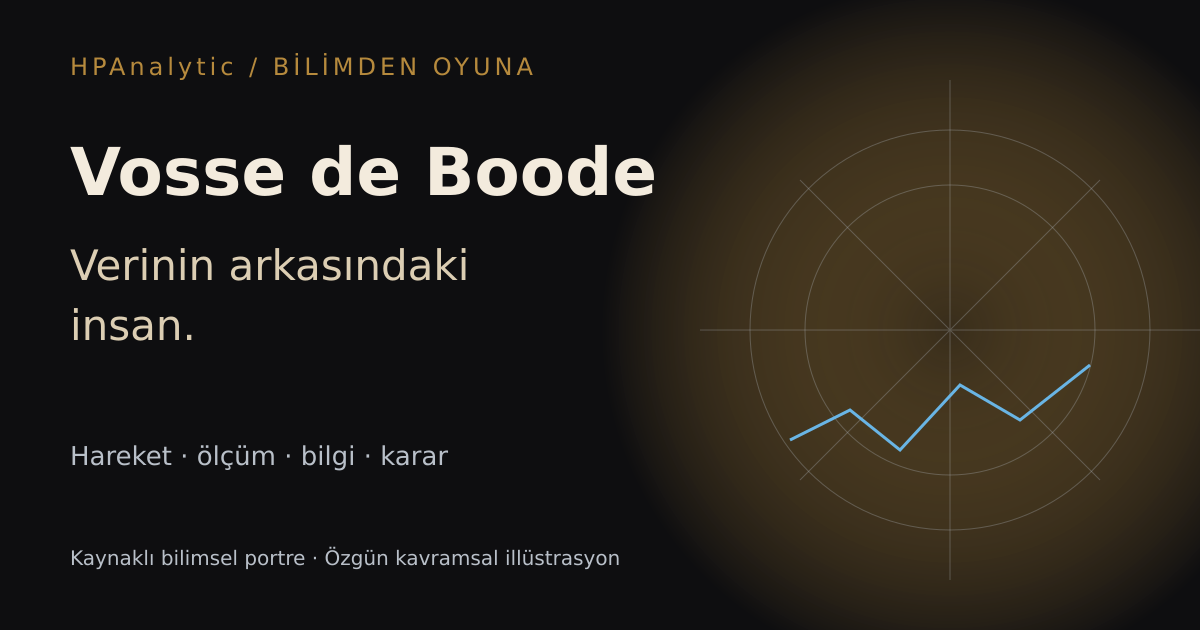
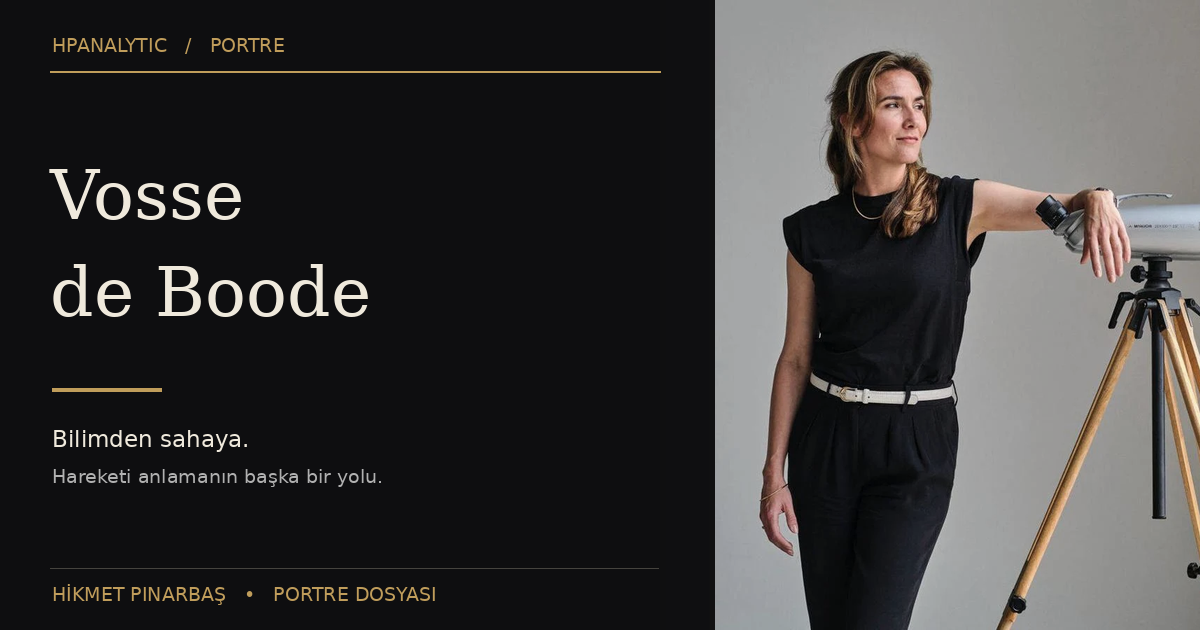
release(vosse): approved phone visual package and correct social cards

diff --git a/hpfootball-site/src/styles/portrait-p0.css b/hpfootball-site/src/styles/portrait-p0.css
@@ -28,3 +28,5 @@
 .portrait-context-hero{margin:0;width:100%;position:relative}.portrait-context-hero img{display:block;width:100%;height:clamp(310px,44vw,560px);object-fit:cover;filter:saturate(.65) contrast(1.07)}.portrait-context-hero figcaption{position:relative;margin:8px 0;font:400 11px/1.5 var(--font-sans,Arial,sans-serif);color:#b6bbbe}.portrait-context-hero a,.portrait-context-inline a{color:#e7bc70;text-decoration:underline;text-underline-offset:3px}.portrait-cover-aside:has(.portrait-context-hero){display:block;padding:8px 0}.portrait-cover-aside:has(.portrait-context-hero)>a{display:block;position:static;max-width:none;text-align:left;margin-top:12px;font-size:13px;color:#e7bc70}.portrait-context-inline{margin:36px auto;width:100%;max-width:760px}.portrait-context-inline img{display:block;max-height:460px;width:100%;object-fit:cover;filter:saturate(.7)}.portrait-context-inline figcaption{font:400 12px/1.7 var(--font-sans,Arial,sans-serif);color:#bbc0c3;margin-top:10px}@media(max-width:760px){.portrait-context-hero img{height:280px}.portrait-cover-aside:has(.portrait-context-hero){display:block}.portrait-context-inline{margin-block:24px}}
 
 .portrait-concept-figure{margin:32px auto;max-width:830px;width:100%;padding:clamp(8px,2vw,20px);border-top:1px solid #3c4348;border-bottom:1px solid #3c4348;background:#111619}.portrait-concept-figure img{display:block;width:100%;height:auto;max-height:480px;object-fit:contain}.portrait-concept-figure figcaption{font:400 12px/1.6 system-ui,sans-serif;color:#b8bec2;margin-top:12px}
+
+.portrait-motion img{width:100%;height:auto;max-height:480px;object-fit:contain;background:#111619}.portrait-archive img{object-position:center}.portrait-person-hero img{filter:none;object-position:center 24%}
